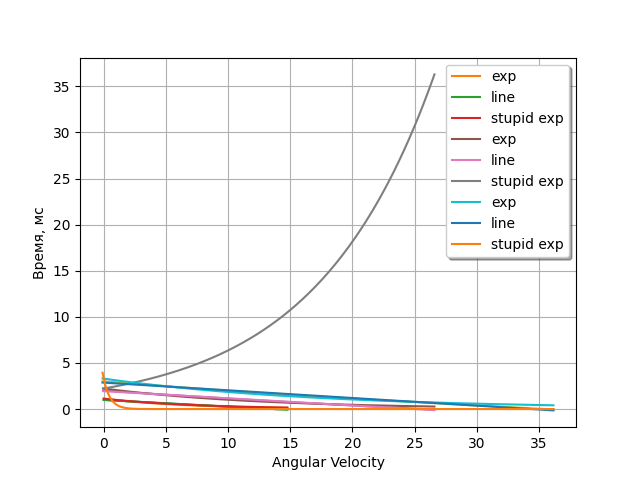
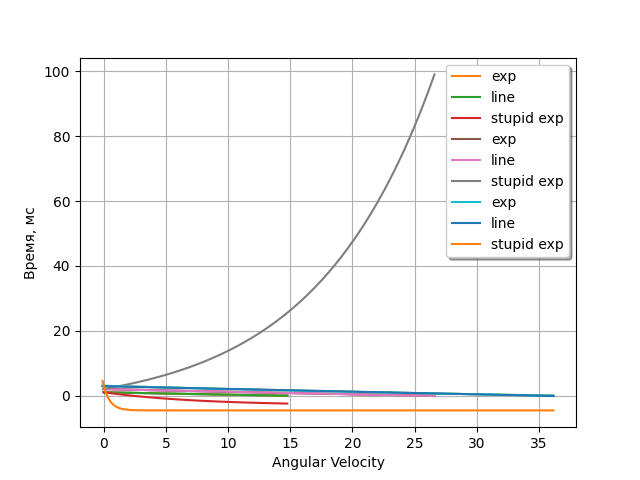
Всё, графики убывают одинаковыми экспонентами с показателем 0.01404979

diff --git a/lab1/main.py b/lab1/main.py
@@ -116,8 +116,8 @@ fig = px.line(
 fig.write_image("fig1.png")
 fig.show()
 
-def exp_interpol_func(tau, a, b):
-  return a * np.exp(-b * tau)
+def exp_interpol_func(tau, a, b, c):
+  return a * np.exp(-b * tau) + c
 
 def line_interpol_func(tau, a,b):
   return a * tau + b
@@ -147,10 +147,10 @@ def create_interpol(measure, st_an_vel):
     print("Line arguments: ", popt2)
     # using the optimal arguments to estimate new values
 
-    ae,  be = popt1[0], popt1[1]
+    ae,  be, ce = popt1[0], popt1[1], popt1[2]
     y_fit1 = []
     for t in arrt:
-        y_fit1.append(exp_interpol_func(t, ae,  be))
+        y_fit1.append(exp_interpol_func(t, ae,  be, ce))
     #y_fit1 = ae * np.exp(-be * arrt)
 
     al, bl = popt2[0], popt2[1]
@@ -160,7 +160,7 @@ def create_interpol(measure, st_an_vel):
     #y_fit2 = al * np.exp(-bl * arrt)
     new_y = []
     for td in arrt:
-        new_y.append(exp_interpol_func(td, ae, np.mean(arrb)))
+        new_y.append(exp_interpol_func(td, ae, np.mean(arrb), ce))
 
     plt.plot(arrt, arry)
     plt.plot(arrt,  y_fit1, label="exp")
@@ -173,11 +173,12 @@ def create_interpol(measure, st_an_vel):
     plt.grid(True)
 
     plt.savefig(f'approx_fit{st_an_vel}.png')
+    ep = r'$e^{-{be}\\cdot\\tau}$'
 
     fig_app = go.Figure()
     fig_app.add_trace(go.Scatter(x=arrt, y=arry, name='Real  measure'))
-    fig_app.add_trace(go.Scatter(x=arrt, y=y_fit1, name=f'$Line: y = { round(al,2)}\\cdot \\tau + { round(bl,2)} $'))
-    fig_app.add_trace(go.Scatter(x=arrt, y=y_fit2, name=f'$Exp: y = { round(ae,2)}\\cdot \\exp{(-round(bl,2))} $'))
+    fig_app.add_trace(go.Scatter(x=arrt, y=y_fit2, name=f'$Line: y = { round(al,2)}\\cdot \\tau + { round(bl,2)} $'))
+    fig_app.add_trace(go.Scatter(x=arrt, y=y_fit1, name=f'$Exp: y = { round(ae,2)}\\cdot e^{-round(be, 2)}\\tau + {round(ce,2)} $'))
     fig_app.update_layout(legend_orientation="h",
                       legend=dict(x=.5, xanchor="center"),
                       title=f'Approx Start Angular Velocity {st_an_vel}',
